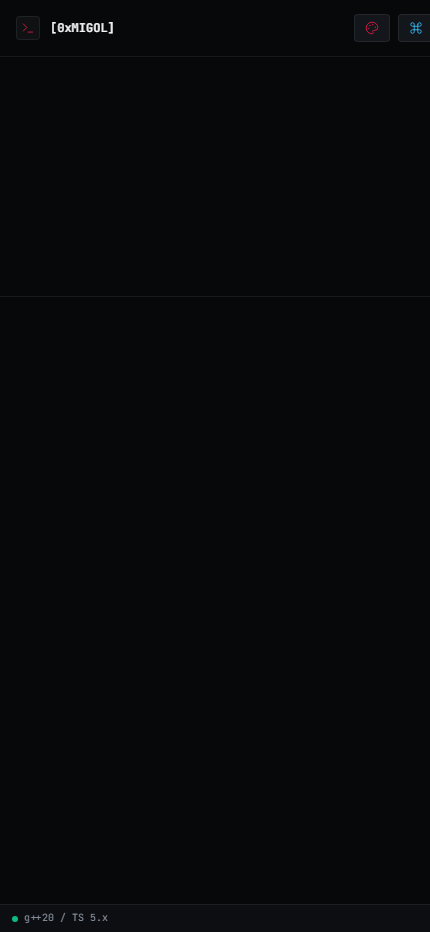
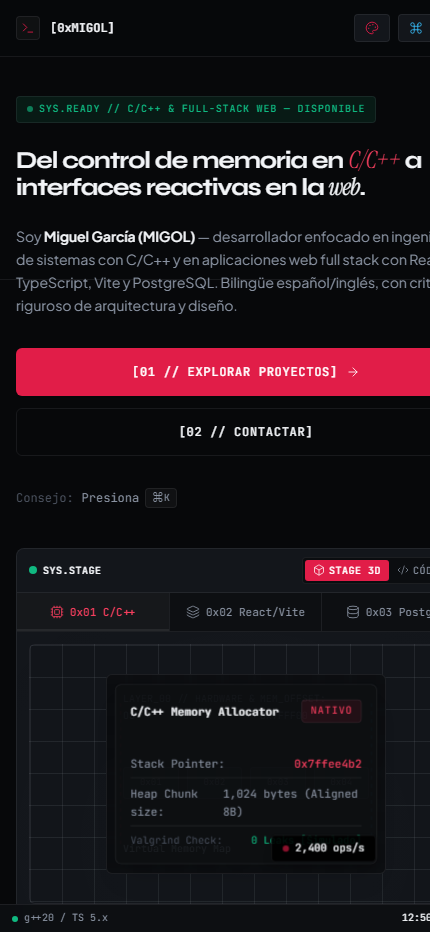
chore(qa): update virtual-time budget in test-qa-browser and capture updated multi-viewport screenshots

diff --git a/scripts/test-qa-browser.ts b/scripts/test-qa-browser.ts
@@ -90,7 +90,7 @@ async function runBrowserQa() {
   console.log("\n[3] Capturing multi-viewport screenshots with headless browser ...");
   for (const vp of VIEWPORTS) {
     const outFile = path.join(SCREENSHOT_DIR, `${vp.name}-crimson.png`);
-    const cmd = `"${BROWSER_PATH}" --headless --disable-gpu --hide-scrollbars --window-size=${vp.width},${vp.height} --screenshot="${outFile}" http://localhost:3000`;
+    const cmd = `"${BROWSER_PATH}" --headless --disable-gpu --hide-scrollbars --virtual-time-budget=2000 --window-size=${vp.width},${vp.height} --screenshot="${outFile}" http://localhost:3000`;
     console.log(`Capturing ${vp.name} (${vp.width}x${vp.height})...`);
     execSync(cmd, { stdio: "pipe", timeout: 15000 });
     const stats = fs.statSync(outFile);
@@ -101,7 +101,7 @@ async function runBrowserQa() {
   const loginOutFile = path.join(SCREENSHOT_DIR, "1280x800-admin-login.png");
   console.log("Capturing admin login (1280x800)...");
   execSync(
-    `"${BROWSER_PATH}" --headless --disable-gpu --window-size=1280,800 --screenshot="${loginOutFile}" http://localhost:3000/admin/login`,
+    `"${BROWSER_PATH}" --headless --disable-gpu --virtual-time-budget=2000 --window-size=1280,800 --screenshot="${loginOutFile}" http://localhost:3000/admin/login`,
     { stdio: "pipe", timeout: 15000 }
   );
   const loginStats = fs.statSync(loginOutFile);
